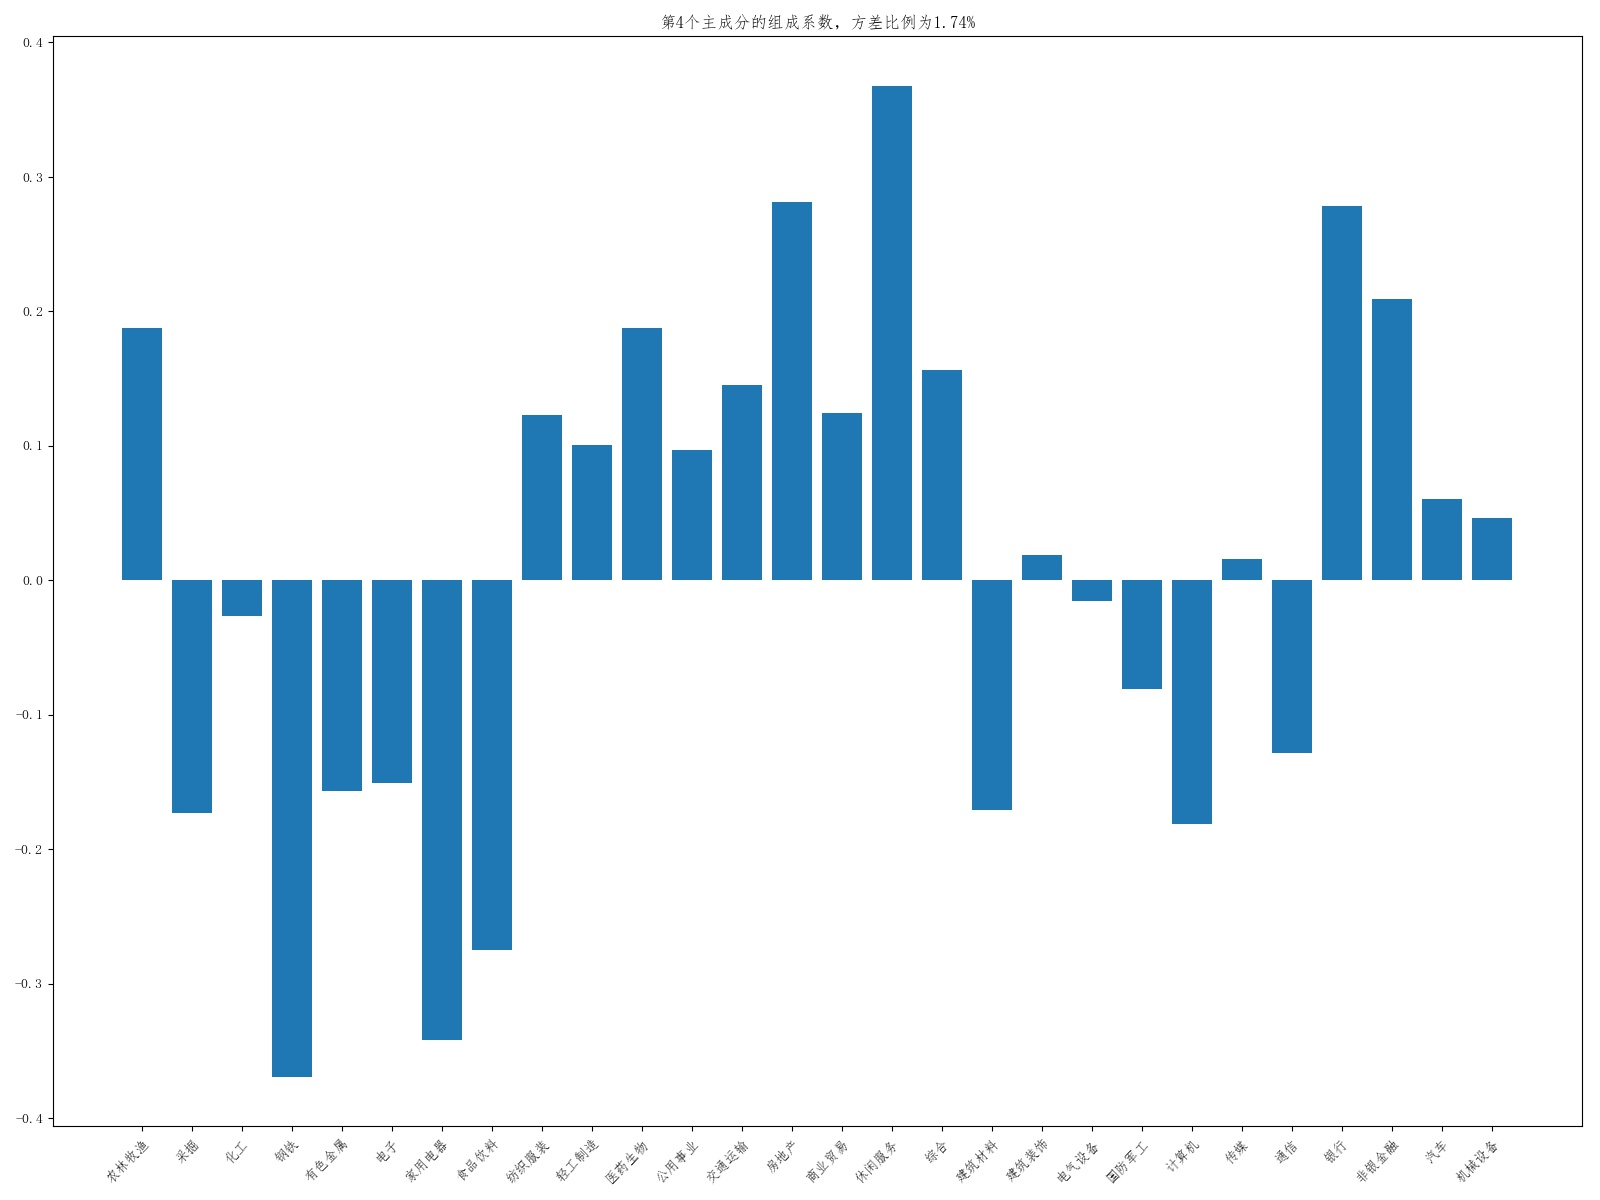
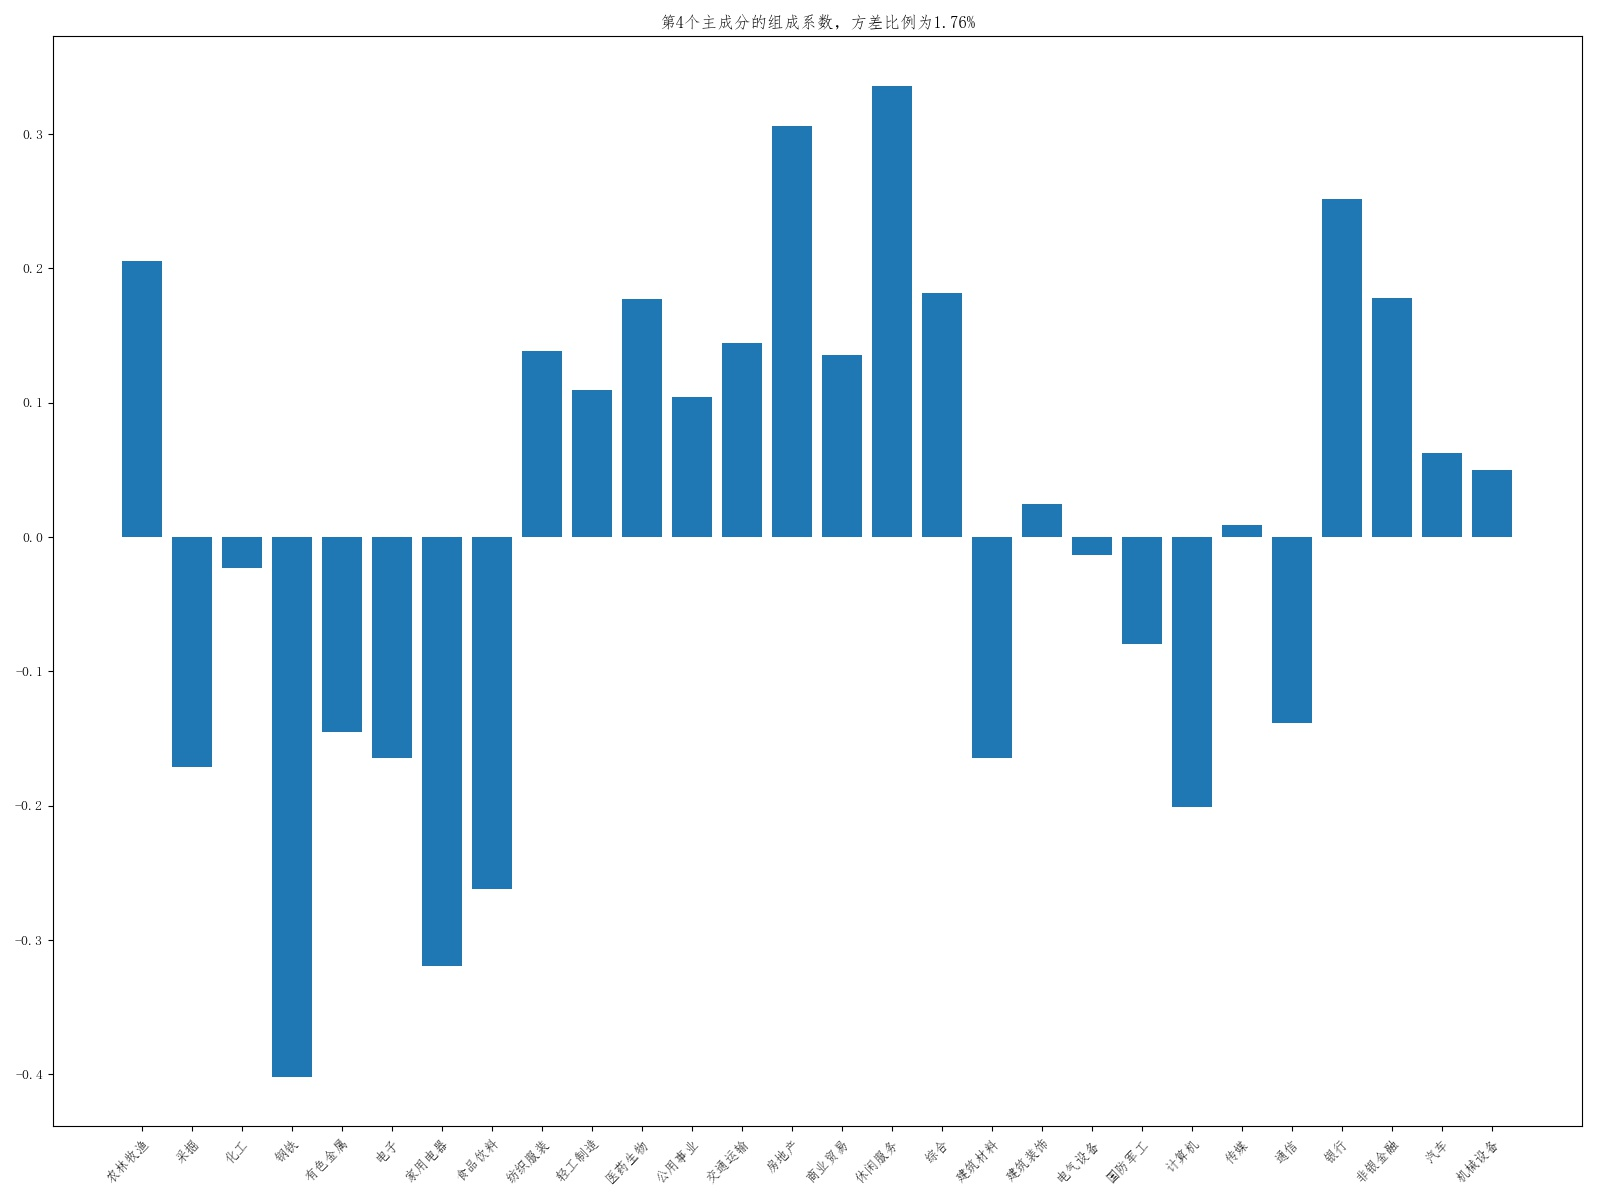
PCA分析调整

diff --git a/掘金多因子开发测试/算法编写模板/PCA分析/每日收盘后PCA分析.py b/掘金多因子开发测试/算法编写模板/PCA分析/每日收盘后PCA分析.py
@@ -63,7 +63,7 @@ def plot_pca_components(n):
     fig, ax = plt.subplots(figsize=(16, 12))
     ax.bar(np.arange(len(columns_names)), component, 0.8)
     ax.set_xticks(np.arange(len(columns_names)))
-    ax.set_xticklabels(columns_names)
+    ax.set_xticklabels(columns_names, size=20)
     plt.setp(ax.get_xticklabels(), rotation=45, ha="right", rotation_mode="anchor")
     ax.set_title('第'+str(n)+'个主成分的组成系数，方差比例为%.2f%%' % (ratio*100.0))
     fig.tight_layout()
@@ -84,8 +84,8 @@ def plot_pca_return_values(return_oneday, n):
     rects = ax.bar(np.arange(len(pca_return_values)), pca_return_values, 0.8)
     for rect in rects:
         height = rect.get_height()
-        ax.text(rect.get_x() + rect.get_width()/2, 1.01 * height, '%.2f%%' % height, ha="center", va='bottom')
-    ax.set_title('前'+str(n)+'个主成分的收益贡献，占当日收益分布的平方范数比例为%.2f%%' % (l2_ratio * 100.0)+'，申万行业收益算术均值为%.2f%%' % return_oneday_mean)
+        ax.text(rect.get_x() + rect.get_width()/2, 1.01 * height, '%.2f%%' % height, ha="center", va='bottom', size=40)
+    ax.set_title('前'+str(n)+'个主成分的收益贡献，占当日收益分布的平方范数比例为%.2f%%' % (l2_ratio * 100.0)+'，申万行业收益算术均值为%.2f%%' % return_oneday_mean, size=30)
     ax.set_xticks(np.arange(len(pca_return_values)))
     fig.tight_layout()
     # plt.show()
@@ -93,7 +93,7 @@ def plot_pca_return_values(return_oneday, n):
 
 
 # 设定计算日期函数和主成分提取参数
-END_DATE = "2018-11-15"  # 收盘计算日期
+END_DATE = "2018-11-19"  # 收盘计算日期
 N = 5
 # 读取数据
 get_data(END_DATE)

diff --git a/发布报告的策略/本杰明格雷厄姆_RSRS择时V1.py b/发布报告的策略/本杰明格雷厄姆_RSRS择时V1.py
@@ -15,7 +15,7 @@ w.start()
 
 # 回测的基本参数的设定
 BACKTEST_START_DATE = '2018-10-10'  # 回测开始日期
-BACKTEST_END_DATE = '2018-11-16'  # 回测结束日期，测试结束日期不运用算法
+BACKTEST_END_DATE = '2018-11-19'  # 回测结束日期，测试结束日期不运用算法
 INDEX = ['000300.SH']  # 股票池代码，可以用掘金代码，也可以用Wind代码
 TRADING_DATE = '10'  # 每月的调仓日期，非交易日寻找下一个最近的交易日
 
